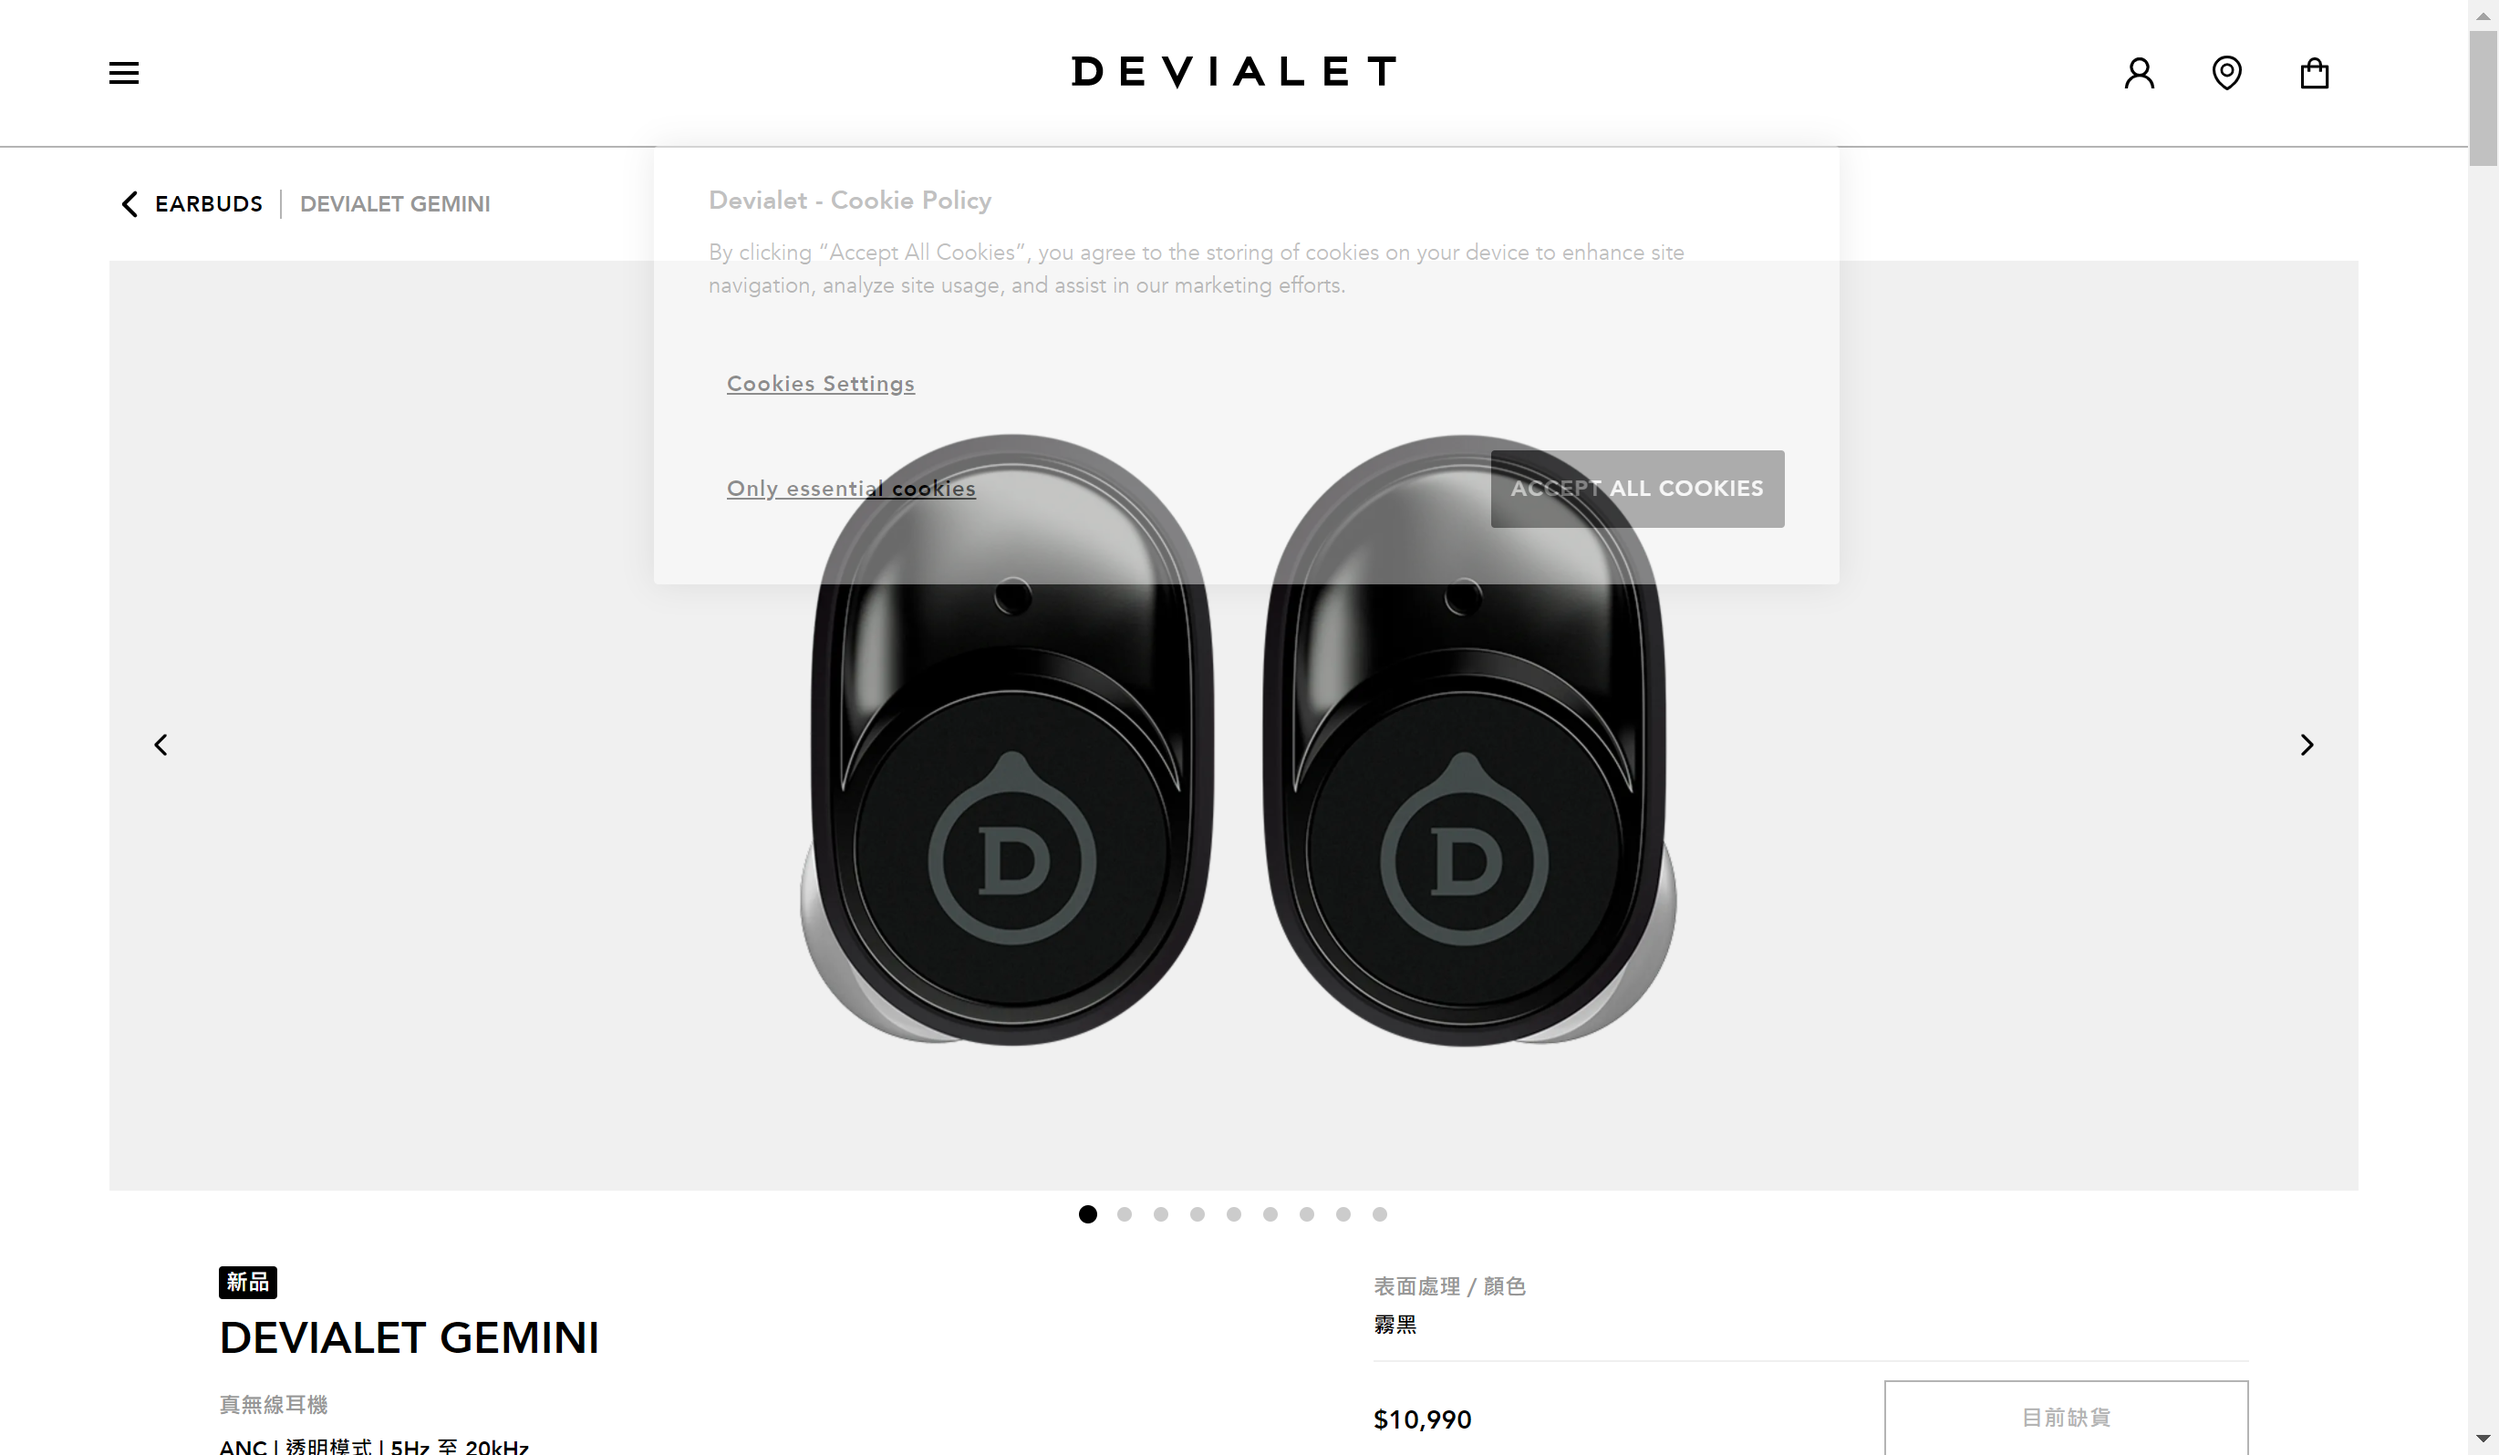
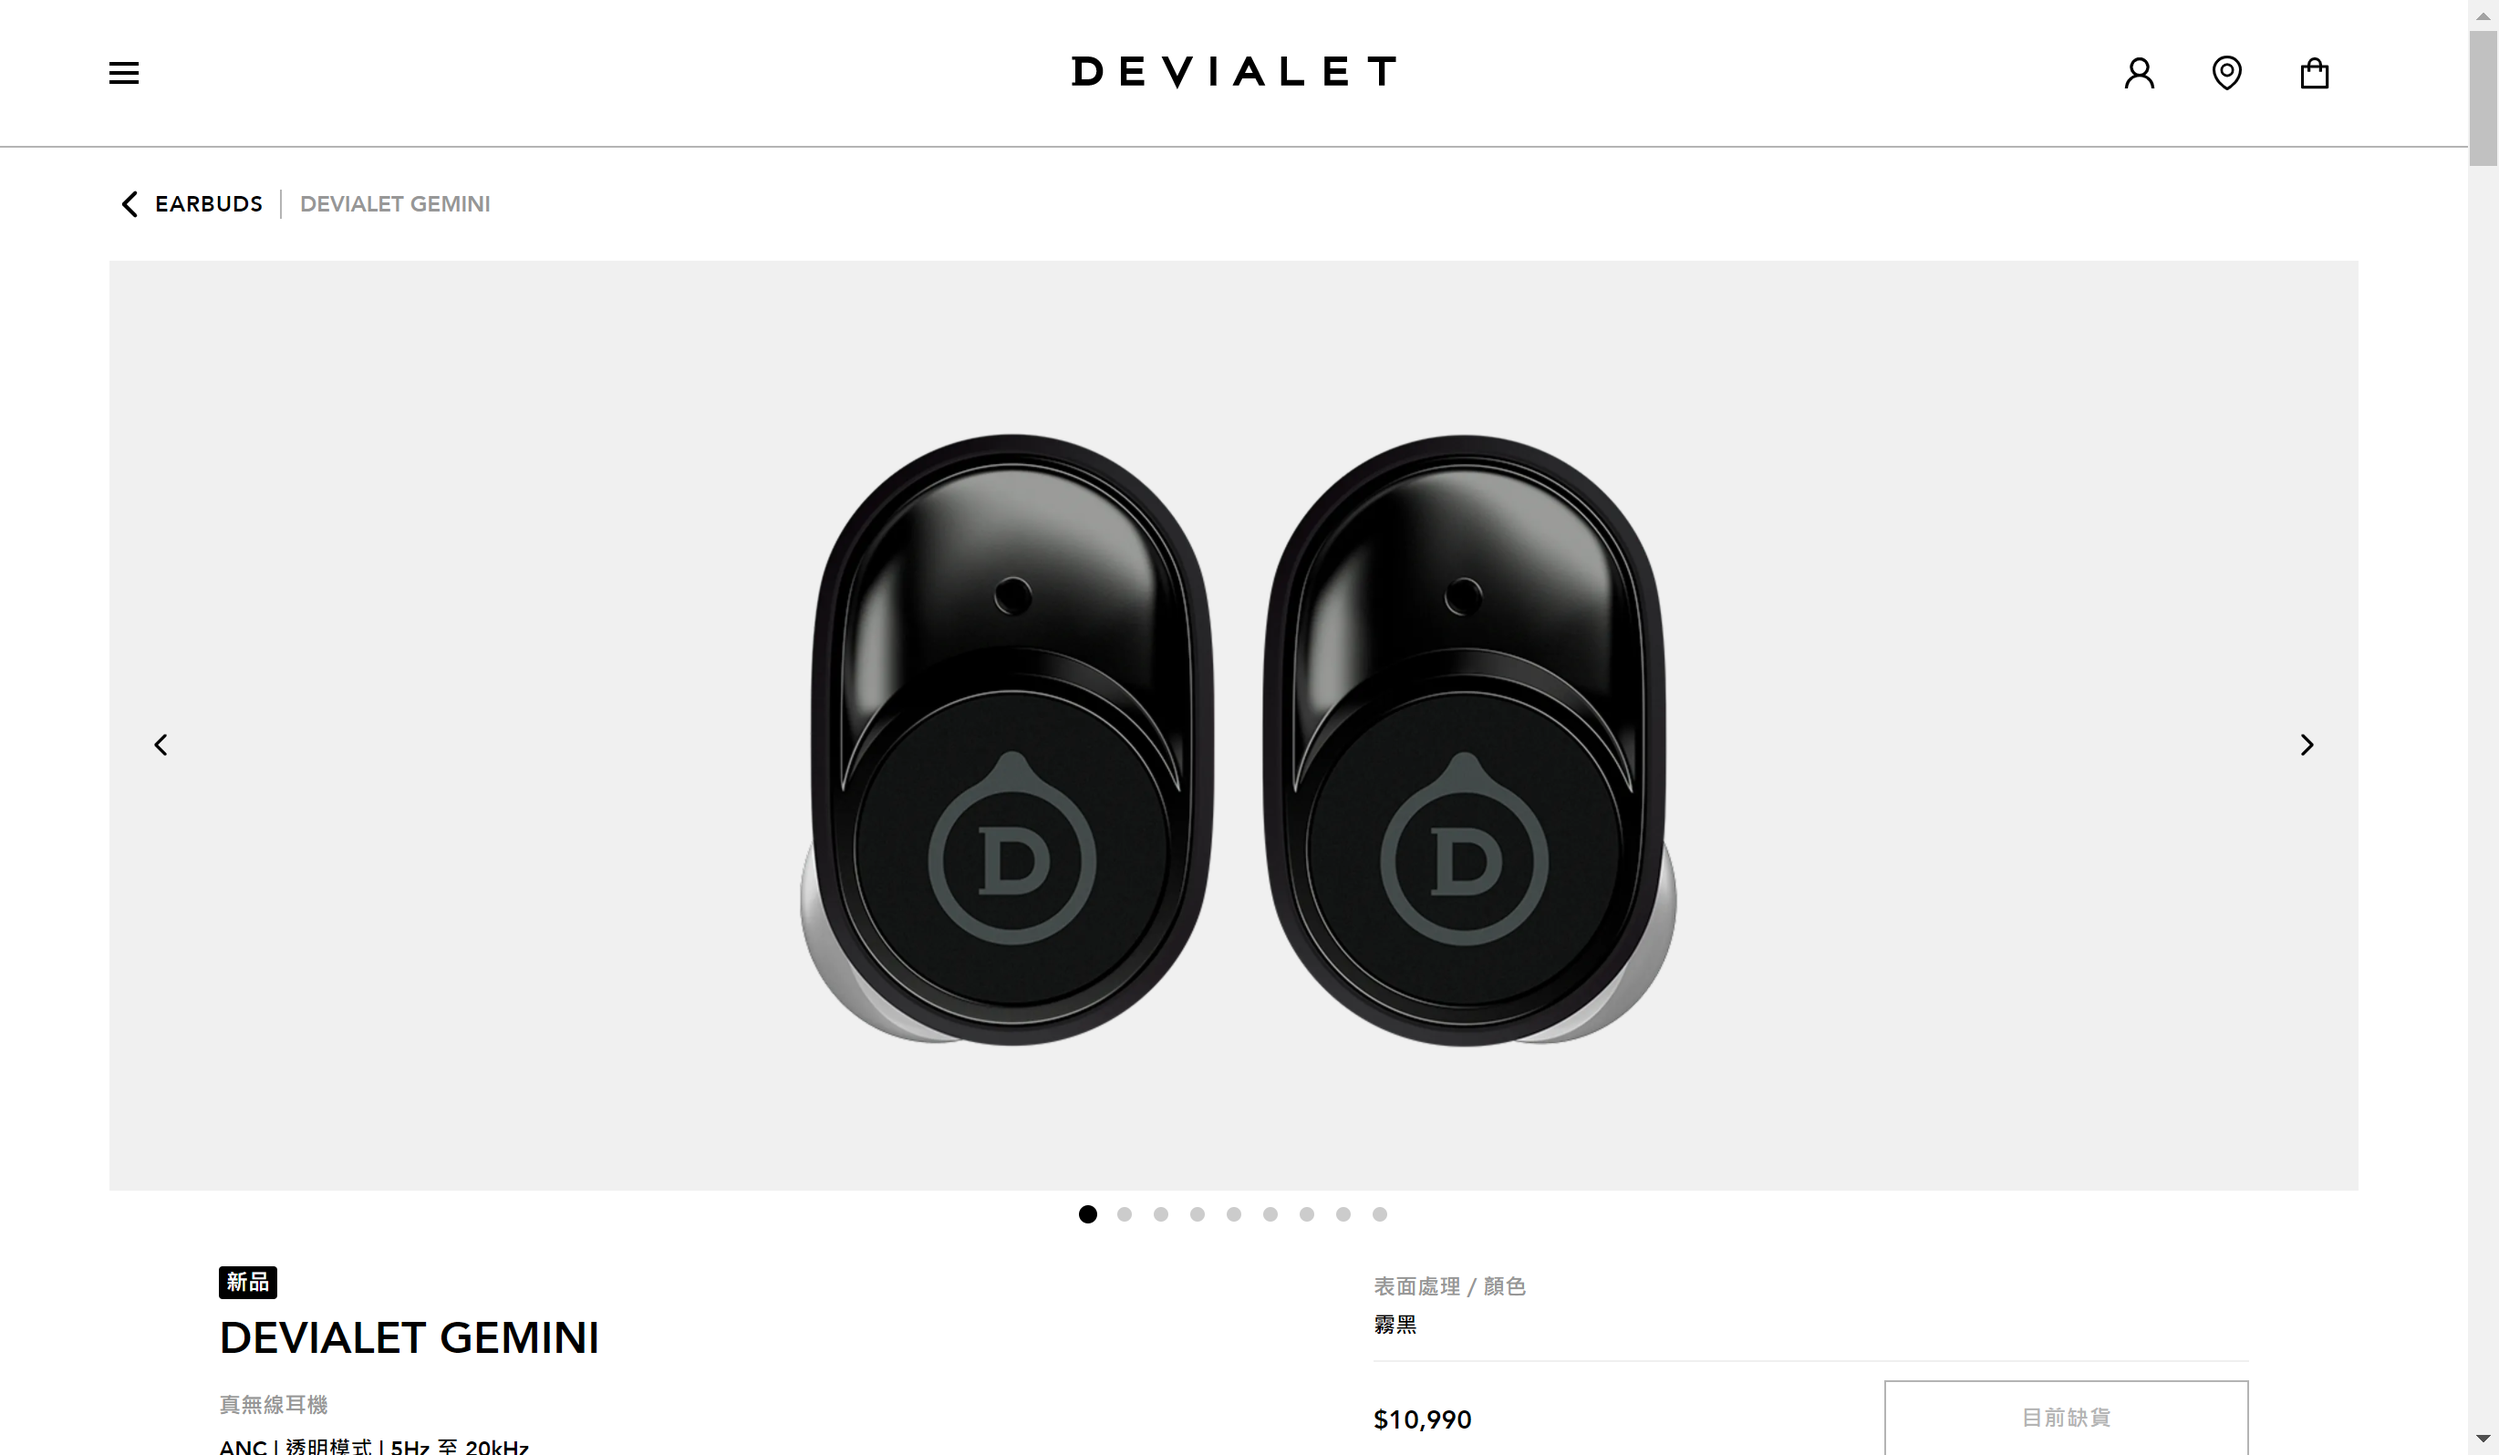
new tamplate for mail content

diff --git a/success_template.html b/success_template.html
@@ -1,0 +1,35 @@
+<!DOCTYPE html>
+<html lang="en">
+<head>
+    <meta charset="UTF-8">
+    <meta name="viewport" content="width=device-width, initial-scale=1.0">
+    <title>Document</title>
+    <style>
+        .container {
+            display: flex;
+            flex-direction: column;
+            justify-content: flex-start;
+            align-items: center;
+        }
+    </style>
+</head>
+<body>
+    <div class="container">
+        <div class="container-text">
+            <p>$text</p>
+        </div>
+        <br />
+        <div class="container-item">
+            <span>Price: <strong>$price</strong></span>
+        </div>
+        <br />
+        <div class="container-item">
+            <span>Status: <strong>$status</strong></span>
+        </div>
+        <br />
+        <div class="container-item">
+            <span>Updated_Time: <a href="https://www.devialet.com/zh-tw/true-wireless-earbuds/gemini/"><strong>$time</strong></a></span>
+        </div>
+    </div>
+</body>
+</html>

diff --git a/crawler.py b/crawler.py
@@ -5,6 +5,8 @@ import schedule
 import time
 from time import sleep
 from time import gmtime, strftime
+from string import Template
+
 
 from bs4 import BeautifulSoup
 
@@ -29,11 +31,13 @@ def getSittingText():
         data_json = json.load(f)
     return data_json
 
-def updatedSittingText(text):
-    print("updateSittingText", text)
+def updatedSittingText(data):
+    print("updateSittingText", data)
     data_json = getSittingText()
-    data_json['text'] = text
-    data_json['time'] = strftime("%Y-%m-%d %H:%M:%S", time.localtime())
+    data_json['text'] = data['text']
+    data_json['price'] = data['price']
+    data_json['status'] = data['status']
+    data_json['time'] = data['time']
     with open("config.json","w") as f:
         json.dump(data_json, f) 
 
@@ -42,10 +46,17 @@ def postMail():
     with open("sitting.json","r") as f:
         data_json = json.load(f)
     content = MIMEMultipart()  #建立MIMEMultipart物件
-    content["subject"] = "[BREND - Server] Devialet Gemini 官方業面更新"  #郵件標題
+    content["subject"] = "[通知] [BREND - Server] Devialet Gemini 官方業面更新通知"  #郵件標題
     content["from"] = data_json['sender']['email']  #寄件者
     content["to"] = data_json['addressee']['email'] #收件者
-    content.attach(MIMEText(data_before['text'] + "   - 更新時間" + data_before['time']))  #郵件內容
+
+    template = Template(Path("success_template.html").read_text())
+    body = template.substitute({ "text": data_before['text'], "price": data_before['price'], "status": data_before['status'], "time": data_before['time']})
+
+    content.attach(MIMEText(body, "html"))  # HTML郵件內容
+    # content.attach(MIMEText("Price: " + data_before['price']))  #郵件內容
+    # content.attach(MIMEText("Status: " + data_before['status']))  #郵件內容
+    # content.attach(MIMEText("Updated_Time: " + data_before['time']))  #郵件內容
     content.attach(MIMEImage(Path("page.png").read_bytes()))
     with smtplib.SMTP(host=data_json['sender']['host'], port=data_json['sender']['port']) as smtp:  # 設定SMTP伺服器
         try:
@@ -66,14 +77,15 @@ def getWebPagePhoto():
     try_c = 5
     try_time = 1
     while try_c > 0:
-        try_c -= 1
         sleep(try_time)
         try:
+            print("ACCEPT ALL COOKIES - button try: " + str(try_c))
             driver.find_element_by_xpath('//*[@id="onetrust-accept-btn-handler"]').click()
         finally: 
-            print("ACCEPT ALL COOKIES - button try: " + str(try_c))
+            print("ACCEPT ALL COOKIES - button click success")
             break
-    sleep(0.1)
+        try_c -= 1
+    sleep(0.5)
     driver.save_screenshot('page.png')
     driver.close()
 
@@ -84,15 +96,22 @@ def checkPage():
     html_soup = BeautifulSoup(resp.text, 'html.parser')
 
     data = html_soup.select(".product__synthesis")
-    # print(type(data[0].text), data[0].text)
     if (data_before['text'] != data[0].text):
-        print("[" + strftime("%Y-%m-%d %H:%M:%S", time.localtime()) + "]", "網址資訊更新 - 開始更新並寄出資訊")
+        print("[" + strftime("%Y-%m-%d %H:%M:%S", time.localtime()) + "]", "網址資訊已更新 - 開始更新本地資料並寄出資訊")
+        price = data[0].select(".product-price")
+        status = data[0].select(".product__add-to-cart__buttons")
+        print(type(data[0].text), data[0].text)
+        print("price", price[0].text)
+        print("status", status[0].text)
+        data_before['price'] = str(price[0].text)
+        data_before['status'] = str(status[0].text)
         data_before['text'] = str(data[0].text)
-        updatedSittingText(data_before['text'])
+        data_before['time'] = strftime("%Y-%m-%d %H:%M:%S", time.localtime())
+        updatedSittingText(data_before)
         getWebPagePhoto()
         postMail()
     else:
-        print("[" + strftime("%Y-%m-%d %H:%M:%S", time.localtime()) + "]","網址資訊尚未更新 - 等待5分鐘後更新更新")
+        print("[" + strftime("%Y-%m-%d %H:%M:%S", time.localtime()) + "]","網址資訊尚未更新 - 等待5分鐘後嘗試重新讀取、確認")
 
 
 schedule_time=5
@@ -101,7 +120,7 @@ schedule.every(schedule_time).minutes.do(checkPage)
 
 
 if __name__ == "__main__":
-
+    checkPage()
     # sys.exit()
     while True:
         schedule.run_pending()
